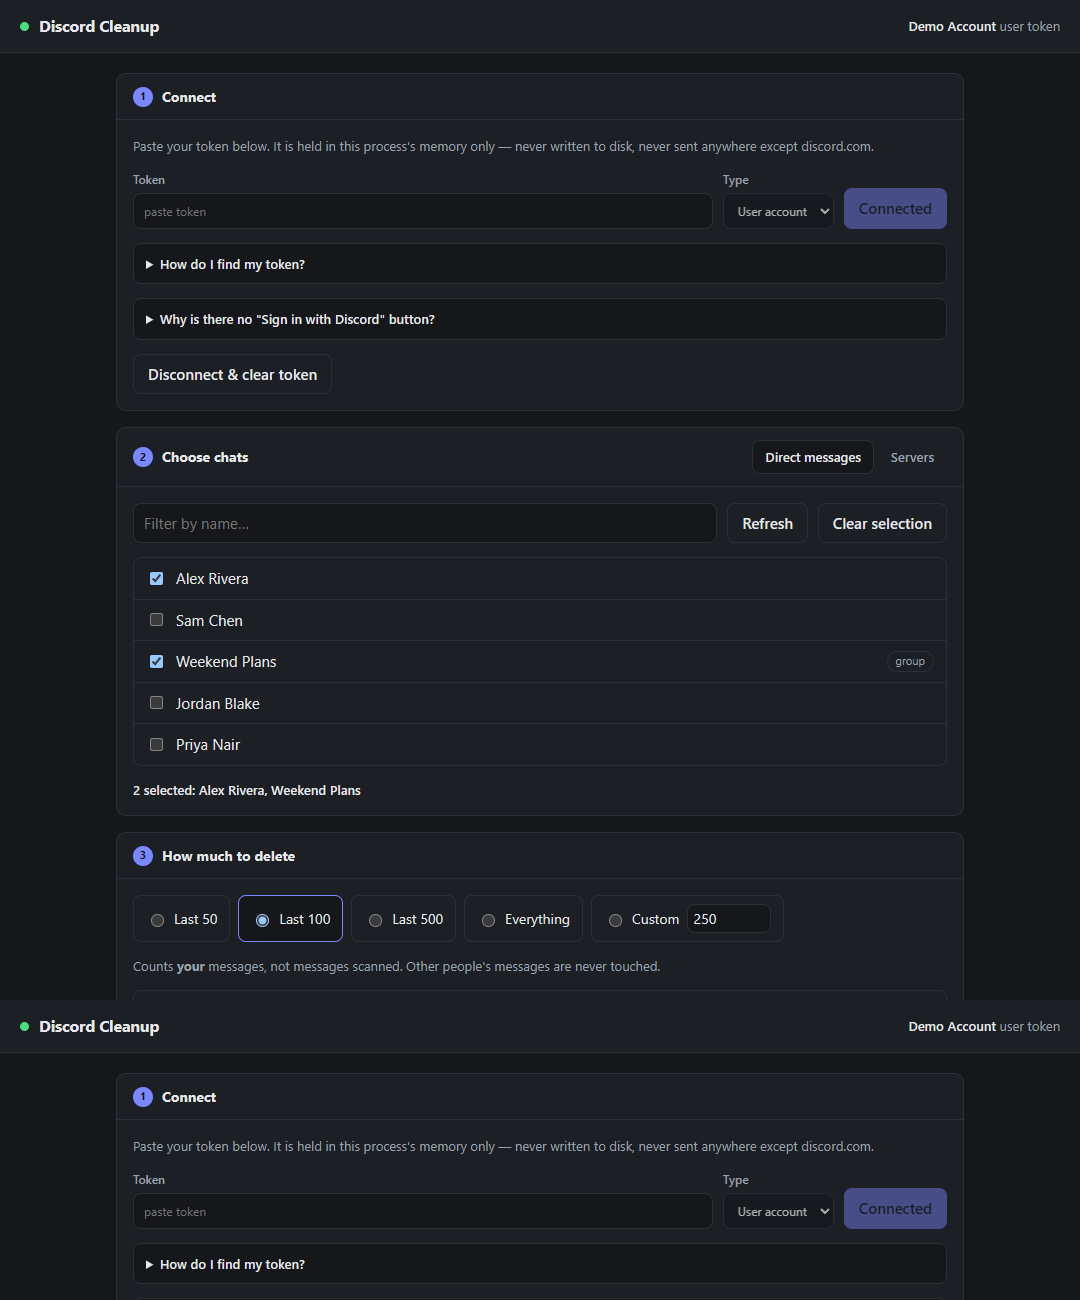
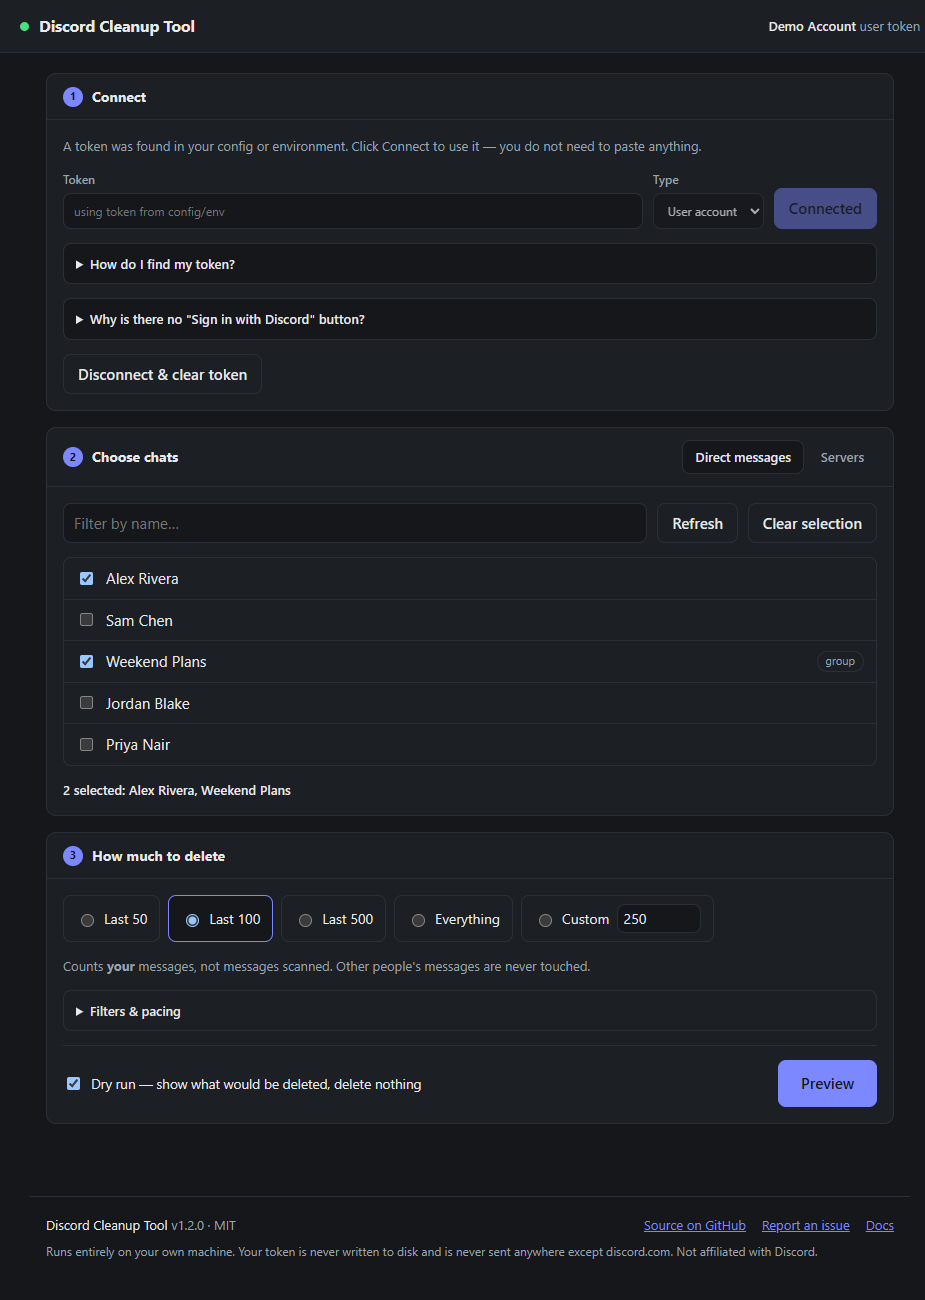
Unify project naming, add CI and project policy docs
The package was still called "discord-deleter" while the repo, README and
UI said "Discord Cleanup Tool", so visitors saw two names for one project.
Worse, the bot User-Agent sent to Discord carried a fabricated contact URL
(github.com/local/discord-deleter) and a stale version.

Rather than fix four copies of a string, add src/meta.js as the single
source of truth for name, version, licence and repo URL, derived from
package.json. The CLI header, dashboard title, heading, footer and the bot
User-Agent all read from it.

- rename package to discord-cleanup-tool, bump to 1.2.0
- bot User-Agent is now DiscordBot (<real repo>, <real version>)
- two new tests pin the identity so it cannot drift again, and the server
  suite asserts no unsubstituted placeholders reach the browser
- screenshots retaken to match the corrected header and footer

Also adds the repository plumbing a public project needs:

- .github/workflows/ci.yml — tests on Node 18/20/22/24 plus Windows and
  macOS, and a job asserting the dependency tree is still empty and the
  dashboard still boots and serves its page
- SECURITY.md — private reporting, the dashboard threat model as a table
  of security properties, and what is explicitly out of scope
- CONTRIBUTING.md — setup, the no-dependencies rule, and the guards that
  must keep passing
- README: CI badge, updated counts, links to both new documents

31 checks passing.

diff --git a/src/meta.js b/src/meta.js
@@ -1,0 +1,42 @@
+import { readFileSync } from 'node:fs';
+import { join, resolve, dirname } from 'node:path';
+import { fileURLToPath } from 'node:url';
+
+/**
+ * Single source of truth for the project's identity.
+ *
+ * Everything that displays a name, version or link — the CLI header, the
+ * dashboard footer, the User-Agent sent to Discord — reads from here, so those
+ * can never drift apart from package.json the way they did before.
+ */
+const ROOT = resolve(dirname(fileURLToPath(import.meta.url)), '..');
+
+let pkg = {};
+try {
+  pkg = JSON.parse(readFileSync(join(ROOT, 'package.json'), 'utf8'));
+} catch {
+  /* running from somewhere odd; the fallbacks below keep things working */
+}
+
+/** npm-style package name, lowercase and hyphenated. */
+export const NAME = pkg.name || 'discord-cleanup-tool';
+
+/** Human-facing name, used in headings and help output. */
+export const DISPLAY_NAME = 'Discord Cleanup Tool';
+
+export const VERSION = pkg.version || '0.0.0';
+
+export const LICENSE = pkg.license || 'MIT';
+
+export const REPO_URL =
+  pkg.homepage ||
+  pkg.repository?.url?.replace(/^git\+/, '').replace(/\.git$/, '') ||
+  'https://github.com/SurefireStudios/DiscordCleanupTool';
+
+/**
+ * User-Agent for bot-token requests. Discord asks bot clients to identify with
+ * a contact URL and version, so this must be real — not a placeholder.
+ */
+export const BOT_USER_AGENT = `DiscordBot (${REPO_URL}, ${VERSION})`;
+
+export { ROOT };

diff --git a/test/smoke.js b/test/smoke.js
@@ -169,4 +169,26 @@ function ok(name) {
   ok(`--delay throttles between deletes (${elapsed}ms for 5 @ 60ms)`);
 }
 
-console.log(`\n${passed}/11 checks passed\n`);
+// 12. project identity is single-sourced and real
+{
+  const meta = await import('../src/meta.js');
+  const { readFileSync } = await import('node:fs');
+  const pkg = JSON.parse(readFileSync(new URL('../package.json', import.meta.url), 'utf8'));
+  assert.equal(meta.NAME, pkg.name, 'meta.NAME must track package.json');
+  assert.equal(meta.VERSION, pkg.version, 'meta.VERSION must track package.json');
+  assert.ok(meta.REPO_URL.startsWith('https://github.com/'), 'repo url must be a real URL');
+  assert.ok(!meta.REPO_URL.includes('/local/'), 'placeholder repo url must not survive');
+  assert.ok(!meta.REPO_URL.endsWith('.git'), 'repo url should be browsable, not a clone url');
+  ok(`identity is single-sourced (${meta.NAME} v${meta.VERSION})`);
+}
+
+// 13. the bot User-Agent Discord sees is honest
+{
+  const { BOT_USER_AGENT, VERSION, REPO_URL } = await import('../src/meta.js');
+  assert.match(BOT_USER_AGENT, /^DiscordBot \(https:\/\/[^,]+, \d+\.\d+\.\d+\)$/);
+  assert.ok(BOT_USER_AGENT.includes(VERSION), 'UA must carry the real version');
+  assert.ok(BOT_USER_AGENT.includes(REPO_URL), 'UA must carry the real contact URL');
+  ok(`bot User-Agent is honest: ${BOT_USER_AGENT}`);
+}
+
+console.log(`\n${passed}/13 checks passed\n`);

diff --git a/src/server.js b/src/server.js
@@ -6,16 +6,10 @@ import { fileURLToPath } from 'node:url';
 import { DiscordAPI, DiscordError } from './api.js';
 import { cleanChannel } from './cleaner.js';
 import { DEFAULTS } from './config.js';
+import { DISPLAY_NAME, VERSION, LICENSE, REPO_URL } from './meta.js';
 
 const ROOT = resolve(dirname(fileURLToPath(import.meta.url)), '..');
 const PUBLIC = join(ROOT, 'public');
-
-// Project metadata lives in one place; the footer reads it from here so the
-// repo link only ever has to be changed in package.json.
-const pkg = JSON.parse(
-  await readFile(join(ROOT, 'package.json'), 'utf8').catch(() => '{}')
-);
-const REPO_URL = pkg.homepage || pkg.repository?.url?.replace(/^git\+/, '') || '';
 
 const MIME = {
   '.html': 'text/html; charset=utf-8',
@@ -321,8 +315,9 @@ export function createDashboard({ port = 8787, token, tokenType, userAgent } = {
           .replace('__DASHBOARD_KEY__', key)
           .replace('__PORT__', String(port))
           .replaceAll('__REPO_URL__', REPO_URL)
-          .replace('__VERSION__', pkg.version || '')
-          .replace('__LICENSE__', pkg.license || '');
+          .replaceAll('__DISPLAY_NAME__', DISPLAY_NAME)
+          .replace('__VERSION__', VERSION)
+          .replace('__LICENSE__', LICENSE);
       }
       res.writeHead(200, {
         'content-type': MIME[extname(filePath)] || 'application/octet-stream',

diff --git a/public/index.html b/public/index.html
@@ -4,14 +4,14 @@
     <meta charset="utf-8" />
     <meta name="viewport" content="width=device-width, initial-scale=1" />
     <meta name="dashboard-key" content="__DASHBOARD_KEY__" />
-    <title>Discord Cleanup</title>
+    <title>Discord Cleanup Tool</title>
     <link rel="stylesheet" href="/style.css" />
   </head>
   <body>
     <header class="topbar">
       <div class="brand">
         <span class="dot" id="status-dot"></span>
-        <h1>Discord Cleanup</h1>
+        <h1>__DISPLAY_NAME__</h1>
       </div>
       <div class="whoami" id="whoami">
         <span class="muted">not connected</span>
@@ -237,7 +237,7 @@
 
     <footer class="footer">
       <div class="footer-main">
-        <span>discord-deleter <span class="muted">v__VERSION__ · __LICENSE__</span></span>
+        <span>__DISPLAY_NAME__ <span class="muted">v__VERSION__ · __LICENSE__</span></span>
         <nav class="footer-links">
           <a href="__REPO_URL__" target="_blank" rel="noopener noreferrer">Source on GitHub</a>
           <a href="__REPO_URL__/issues" target="_blank" rel="noopener noreferrer">Report an issue</a>

diff --git a/test/server.test.js b/test/server.test.js
@@ -267,10 +267,19 @@ async function runJob(body) {
   ok('footer is populated from package.json metadata');
 }
 {
+  const html = await (await fetch(`${ORIGIN}/`)).text();
+  const { DISPLAY_NAME, VERSION } = await import('../src/meta.js');
+  assert.ok(html.includes(`<title>${DISPLAY_NAME}</title>`), 'page title matches the project name');
+  assert.ok(html.includes(`<h1>${DISPLAY_NAME}</h1>`), 'heading matches the project name');
+  assert.ok(html.includes(`v${VERSION}`), 'footer shows the real version');
+  assert.ok(!/__[A-Z_]+__/.test(html), 'no unsubstituted placeholders remain');
+  ok('served page carries the project name and version, no placeholders left');
+}
+{
   const res = await fetch(`${ORIGIN}/../src/config.js`);
   assert.ok(res.status === 404 || res.status === 403, `expected block, got ${res.status}`);
   ok('path traversal out of public/ is blocked');
 }
 
 server.close();
-console.log(`\n${passed}/17 checks passed\n`);
+console.log(`\n${passed}/18 checks passed\n`);

diff --git a/src/cli.js b/src/cli.js
@@ -4,6 +4,7 @@ import { stdin, stdout } from 'node:process';
 import { DiscordAPI, snowflakeToDate, DiscordError } from './api.js';
 import { loadConfig, resolveTarget } from './config.js';
 import { cleanChannel } from './cleaner.js';
+import { DISPLAY_NAME, VERSION } from './meta.js';
 
 // --- tiny arg parser ---------------------------------------------------------
 
@@ -42,7 +43,7 @@ const c = {
 };
 
 const HELP = `
-${c.bold('discord-deleter')} — bulk-remove your own messages from chosen DMs and channels.
+${c.bold(DISPLAY_NAME)} ${c.dim('v' + VERSION)} — bulk-remove your own messages from chosen DMs and channels.
 
 ${c.bold('Usage')}
   ddel whoami                        Verify the token and show the account it belongs to

diff --git a/src/api.js b/src/api.js
@@ -1,3 +1,5 @@
+import { BOT_USER_AGENT } from './meta.js';
+
 const BASE = 'https://discord.com/api/v10';
 
 export class DiscordError extends Error {
@@ -30,7 +32,7 @@ export class DiscordAPI {
     this.userAgent =
       userAgent ||
       (tokenType === 'bot'
-        ? 'DiscordBot (https://github.com/local/discord-deleter, 1.0.0)'
+        ? BOT_USER_AGENT
         : 'Mozilla/5.0 (Windows NT 10.0; Win64; x64) AppleWebKit/537.36 ' +
           '(KHTML, like Gecko) Chrome/131.0.0.0 Safari/537.36');
     // bucket key -> epoch ms until which we must not send

diff --git a/CONTRIBUTING.md b/CONTRIBUTING.md
@@ -1,0 +1,75 @@
+# Contributing
+
+Thanks for taking a look. Issues and pull requests are both welcome.
+
+## Getting set up
+
+```bash
+git clone https://github.com/SurefireStudios/DiscordCleanupTool.git
+cd DiscordCleanupTool
+npm test
+```
+
+There's no install step and no build step — the project has no dependencies, and the dashboard is
+plain HTML, CSS and JS served as-is. You need Node 18 or newer.
+
+You do **not** need a Discord token to develop or test. The whole suite runs against a stubbed
+API, makes no network calls, and deletes nothing.
+
+## Running it
+
+```bash
+npm run dashboard          # http://127.0.0.1:8787
+node src/cli.js help       # CLI
+```
+
+## Ground rules
+
+**1. No runtime dependencies.** This is a feature, not an accident — the tool handles credentials
+that are equivalent to full account access, and an empty dependency tree is a large part of why
+it's reasonable to trust it. CI fails the build if `dependencies` is non-empty. Dev dependencies
+are also better avoided; the tests use `node:assert`.
+
+**2. Keep the security guards passing.** If you touch `src/server.js`, the tests in
+`test/server.test.js` covering the dashboard key, CSRF, DNS rebinding, loopback binding, path
+traversal and token non-disclosure must stay green. See [SECURITY.md](SECURITY.md) for why each
+exists. A change that weakens one needs to say so explicitly in the PR.
+
+**3. Never render Discord content as markup.** Message text and channel names come from other
+people. The UI renders all of it with `textContent`, never `innerHTML`. There is a test with an
+`<img onerror=...>` payload in the fixture to keep this honest.
+
+**4. Don't make the tool harder to detect.** It identifies itself accurately and obeys every rate
+limit Discord reports. PRs that add fingerprint spoofing, request jitter designed to look human,
+proxy rotation, or anything else whose purpose is evading Discord's anti-automation systems will
+be declined. Respecting rate limits is both the correct behaviour and the thing that actually
+makes runs uneventful.
+
+**5. Deletion stays deliberate.** Dry run remains the default in the dashboard. The confirmation
+step, and the type-`DELETE` gate on *Everything*, stay. If you add a new way to delete things, it
+needs an equivalent guard.
+
+**6. Match the surrounding style.** Two-space indent, single quotes, semicolons, ES modules.
+Comments explain *why*, not *what*. There's no linter — just read the neighbouring code.
+
+## Before opening a PR
+
+```bash
+npm test
+```
+
+All 31 checks should pass. CI runs the same suite on Node 18, 20, 22 and 24, plus Windows and
+macOS, and separately verifies that the dependency tree is still empty and the dashboard still
+boots.
+
+In the PR description, say what changed and why. If it's a behaviour change, mention how you
+verified it — especially anything touching the delete path, where "I ran it against my own
+account" is genuinely useful information.
+
+## Reporting bugs
+
+Open an issue with what you expected, what happened, your Node version and OS, and the exact
+command or steps. **Redact any token** from logs and screenshots before posting — and if one
+slipped out, change your Discord password immediately, which invalidates it.
+
+For security vulnerabilities, don't open a public issue — see [SECURITY.md](SECURITY.md).

diff --git a/README.md b/README.md
@@ -6,10 +6,11 @@
 
 Browser dashboard *or* CLI. Runs entirely on your machine. Zero dependencies.
 
+[![CI](https://github.com/SurefireStudios/DiscordCleanupTool/actions/workflows/ci.yml/badge.svg)](https://github.com/SurefireStudios/DiscordCleanupTool/actions/workflows/ci.yml)
 [![License: MIT](https://img.shields.io/github/license/SurefireStudios/DiscordCleanupTool?color=blue)](LICENSE)
 [![Node](https://img.shields.io/badge/node-%E2%89%A518-5FA04E?logo=node.js&logoColor=white)](https://nodejs.org)
 [![Dependencies](https://img.shields.io/badge/dependencies-0-brightgreen)](package.json)
-[![Tests](https://img.shields.io/badge/tests-28-blue)](test)
+[![Tests](https://img.shields.io/badge/tests-31-blue)](test)
 [![Stars](https://img.shields.io/github/stars/SurefireStudios/DiscordCleanupTool?style=flat&color=yellow)](https://github.com/SurefireStudios/DiscordCleanupTool)
 
 <img src="docs/dashboard.png" alt="The Discord Cleanup Tool dashboard: connect, choose chats, choose how much to delete" width="820">
@@ -320,7 +321,12 @@ security boundary — any page in your browser can send requests to `127.0.0.1`.
 - The token appears in no response body. `Ctrl+C`, or *Disconnect & clear token*, drops it from
   memory.
 
-Each of these is covered by a test in [`test/server.test.js`](test/server.test.js).
+Each of these is covered by a test in [`test/server.test.js`](test/server.test.js), and the
+full threat model — including what is explicitly out of scope — is in
+[SECURITY.md](SECURITY.md).
+
+**Found a vulnerability?** Please report it privately rather than opening an issue:
+[report a vulnerability](https://github.com/SurefireStudios/DiscordCleanupTool/security/advisories/new).
 
 ---
 
@@ -394,17 +400,22 @@ test/server.test.js   dashboard tests, including the security guards
 npm test
 ```
 
-28 checks, with no network calls and no real deletions. The engine suite covers limit accounting,
+31 checks, with no network calls and no real deletions. The engine suite covers limit accounting,
 pagination across pages, the ownership filter, date and text filters, dry run issuing zero
 DELETEs, 404 handling, and the delay actually being applied. The server suite covers the key
 check, CSRF and DNS-rebinding rejection, loopback binding, the token never appearing in a
-response, path traversal, job streaming, and stopping a run mid-flight.
+response, path traversal, job streaming, and stopping a run mid-flight. Two further checks
+pin the project identity so the name, version and User-Agent can't drift apart again.
+
+CI additionally verifies that the dependency tree is still empty and that the dashboard boots
+and serves its page.
 
 ## Contributing
 
 Issues and pull requests are welcome.
 
-- Run `npm test` before opening a PR.
+- Read [CONTRIBUTING.md](CONTRIBUTING.md) — it covers setup, the ground rules, and what gets declined.
+- Run `npm test` before opening a PR. CI runs the same suite on Node 18/20/22/24 plus Windows and macOS.
 - If you touch `src/server.js`, keep the guards in `test/server.test.js` passing — they are the
   reason it's safe to hold a token in a local web server.
 - No runtime dependencies, please. Keeping the tree empty is a feature for a tool that handles

diff --git a/SECURITY.md b/SECURITY.md
@@ -1,0 +1,62 @@
+# Security Policy
+
+This tool handles Discord tokens, which are equivalent to full account access. Security issues
+here are worth reporting, and worth reporting privately.
+
+## Reporting a vulnerability
+
+**Please do not open a public issue for a security vulnerability.**
+
+Use GitHub's private reporting instead:
+[**Report a vulnerability**](https://github.com/SurefireStudios/DiscordCleanupTool/security/advisories/new).
+
+Please include:
+
+- what an attacker can do, and what they need in order to do it
+- the steps to reproduce it
+- the affected file or endpoint, if you know it
+- the version or commit you tested
+
+You can expect an initial response within about a week. This is a small project maintained in
+spare time, so please be patient — but a real vulnerability will be taken seriously.
+
+**Never include a real Discord token in a report.** If you need to demonstrate something with a
+token, redact it, and rotate it (change your Discord password) afterwards.
+
+## Supported versions
+
+The latest release on `main` is the only supported version. Fixes go forward, not into old tags.
+
+## Threat model
+
+The dashboard runs a local HTTP server that holds a live Discord token in memory. Loopback alone
+is **not** treated as a security boundary, because any page in the user's browser can send
+requests to `127.0.0.1`. The following are therefore treated as security properties, each covered
+by a test in [`test/server.test.js`](test/server.test.js):
+
+| Property | Defence |
+| --- | --- |
+| Nothing on the network can reach the server | binds `127.0.0.1` explicitly, never `0.0.0.0` |
+| No other site can drive the API | random per-launch key required in a custom request header |
+| No CSRF | a custom header can't be set by a cross-site form post; no cookie is ever set |
+| No DNS rebinding | requests with a foreign `Origin`, or a non-loopback `Host`, are rejected |
+| No script injection from message content | strict CSP, no inline script, and all content rendered via `textContent` |
+| Token never leaks to the page | it appears in no response body; only a message id and trimmed text are streamed |
+| Token never persists | held in memory only; dropped on `Ctrl+C` or *Disconnect & clear token* |
+
+A regression in any of those is a vulnerability, not a bug. Please report it privately.
+
+### Out of scope
+
+- **The user token approach itself.** Automating a user account violates Discord's Terms of
+  Service. That is documented prominently in the README; it's a known and deliberate trade-off,
+  not a vulnerability.
+- **Anyone with local access to your machine.** A process running as you can read the token from
+  memory. This tool does not defend against a compromised local account.
+- **Discord's own rate limits or API behaviour.** Report those to Discord.
+
+## If you think your token has leaked
+
+Change your Discord password. That invalidates every existing user token immediately, including
+any that escaped. For a bot token, regenerate it in the
+[Developer Portal](https://discord.com/developers/applications).
